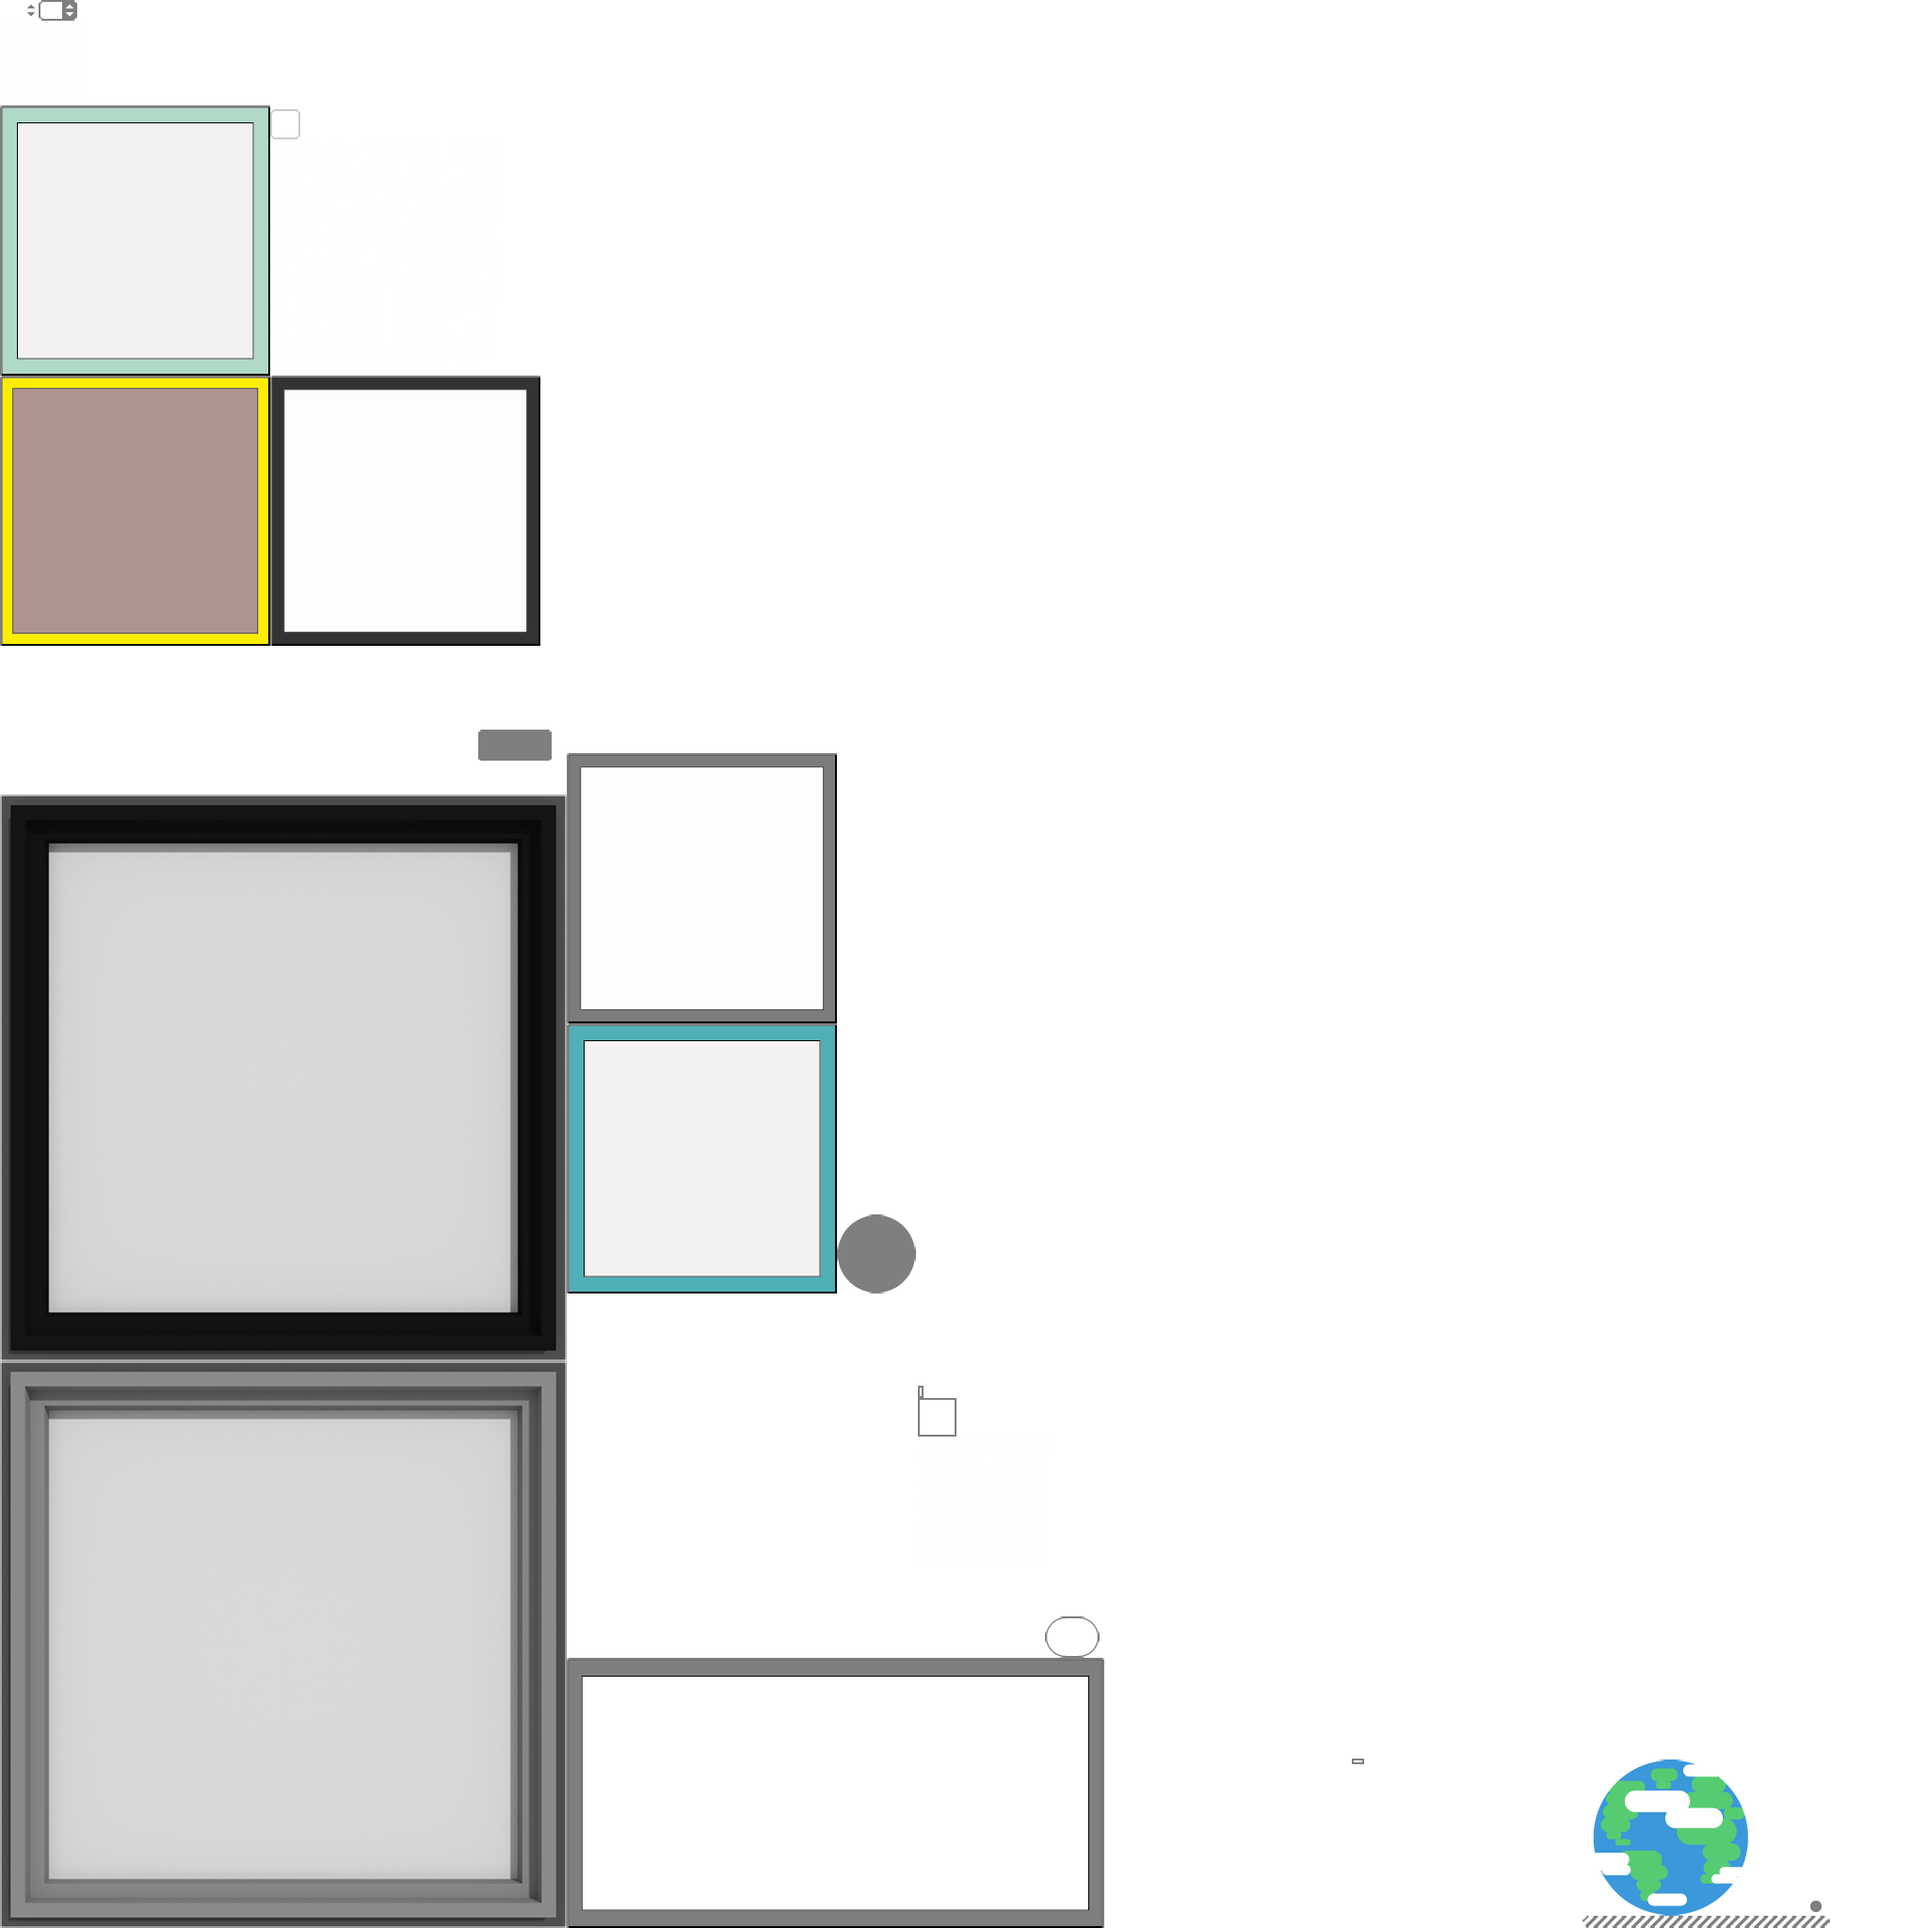
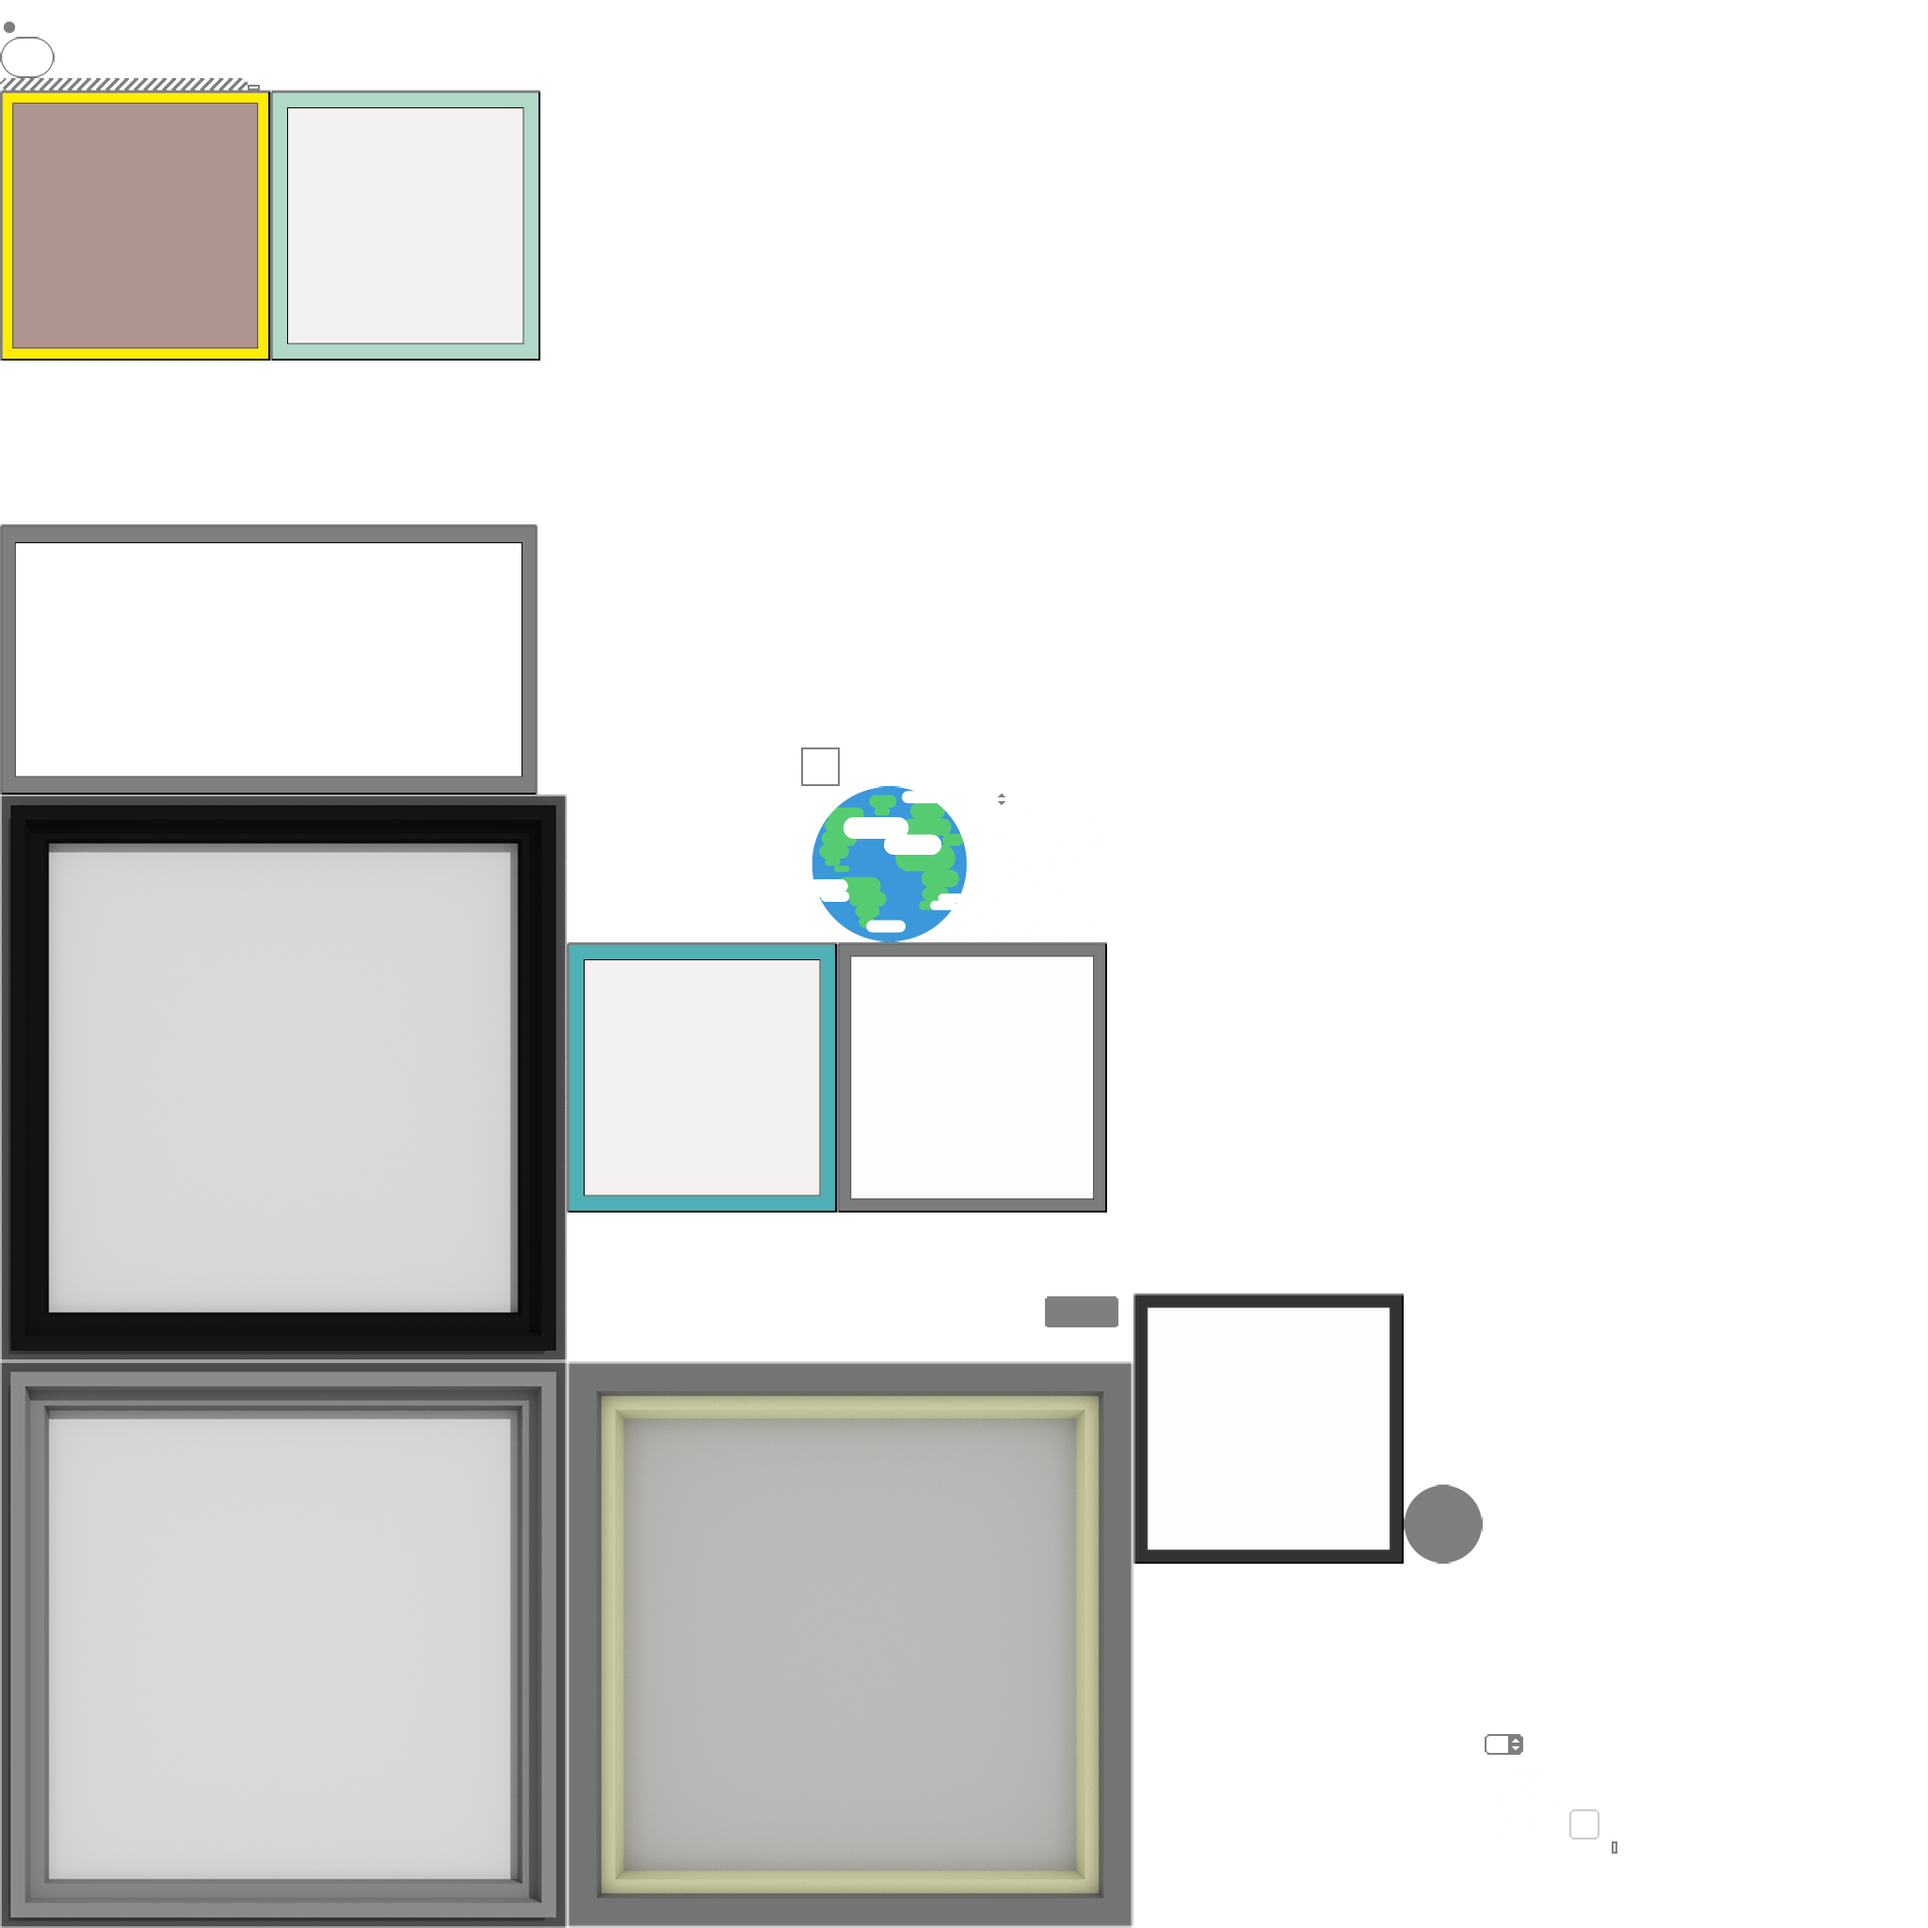
Table change

Changed region(s): [[0.0, 0.0, 0.7812, 1.0], [0.8125, 0.9062, 0.9375, 1.0]]

diff --git a/core/src/com/mygdx/game/quest/QuestTable.java b/core/src/com/mygdx/game/quest/QuestTable.java
@@ -13,8 +13,8 @@ import com.mygdx.game.Constants;
 public class QuestTable extends Table {
     private final int TABLE_WIDTH = 250;
     private final int TABLE_HEIGHT = 150;
-    private final int TABLE_PAD = 10;
-    private final String TABLE_BG = "timeTable";
+    private final int TABLE_PAD = 30;
+    private final String TABLE_BG = "table";
     private final String NAME_STYLE = "default";
     private final String DESCRIPTION_STYLE = "RobotoSmall";
 

diff --git a/core/src/com/mygdx/game/Time/TimeTable.java b/core/src/com/mygdx/game/Time/TimeTable.java
@@ -11,7 +11,7 @@ public class TimeTable extends Table {
     private static final int PAD = 3;
     private static final int DELTA_POSITION = 5;
     private static final String TIME_STYLE = "RobotoTime";
-    private static final String TABLE_STYLE = "timeTable";
+    private static final String TABLE_STYLE = "table";
     private static final String TIME_TEXT = "Time: ";
     private static final int DELTA = 30;
     private Label time;
